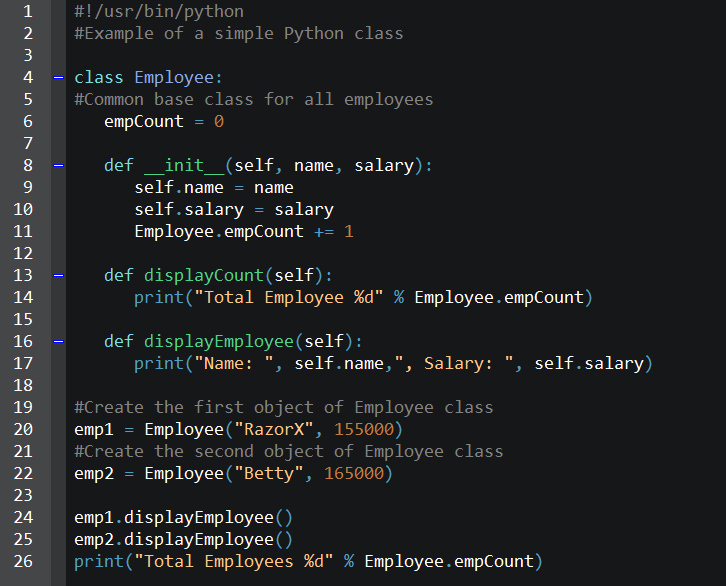
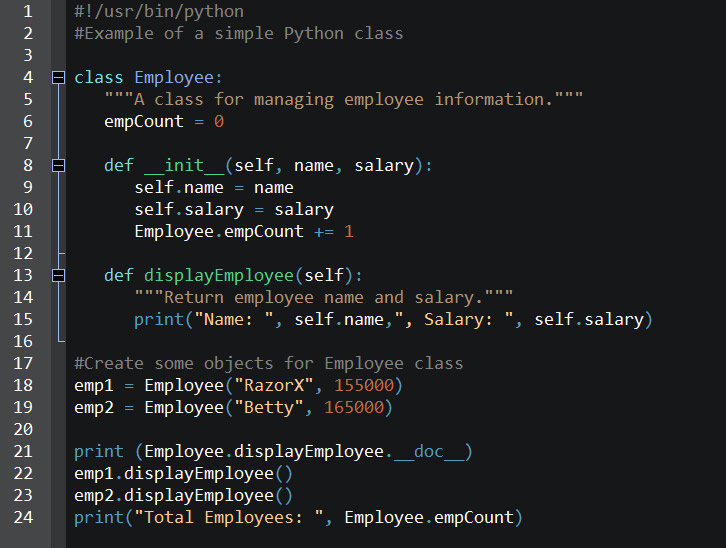
Fold-mark and active range colors were added

diff --git a/LICENSE.md b/LICENSE.md
@@ -4,9 +4,8 @@ Copyright (c) 2014 Daniel Hill aka RazorX - Identity e-mail: public at RazorX.co
 
 
 
-Permission is hereby granted, free of charge, to any person obtaining a copy
-of this software and associated documentation files (the "Software"), to deal
-in the Software without restriction, including without limitation the rights
+Permission is hereby granted, free of charge, to any person obtaining a copy 
+of this software and associated documentation files (the "Software"), to deal in the Software without restriction, including without limitation the rights 
 to use, copy, modify, merge, publish, distribute, sublicense, and/or sell
 copies of the Software, and to permit persons to whom the Software is
 furnished to do so, subject to the following conditions:

diff --git a/README.md b/README.md
@@ -6,7 +6,7 @@ Optional color palette for the Python Wing IDE
 
 About
 ==========================
-Positronic is a custom color scheme designed for the Python Wing IDE. The scheme is the color approximation of a #1A5E7F Tetrad with high contrast.
+Positronic is a custom color scheme designed for the Python Wing IDE. The scheme is the color approximation of a #FFCC91 Triad with high contrast.
 
 Author: RazorX aka Daniel Hill 
 

diff --git a/CHANGELOG.md b/CHANGELOG.md
@@ -1,4 +1,11 @@
-## 1.1
+## 1.2 (November 23, 2014)
+
+Enhancements:
+
+  - Fold-mark and active range colors were added. Note: These are new and were not available until Wing IDE 5.0.9.
+  - The colors for tripple, tripple double, single string, double string, number, edge-marker, and bookmark were slightly modified for visual distinction.
+
+## 1.1 (June 26, 2014)
 
 Enhancements:
 
